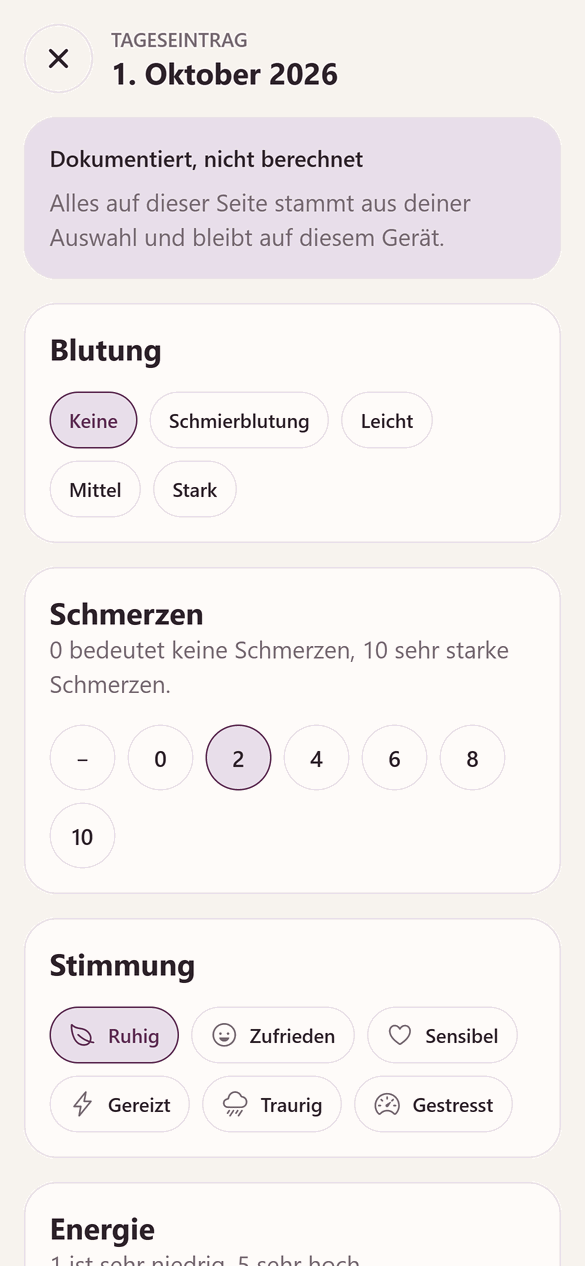
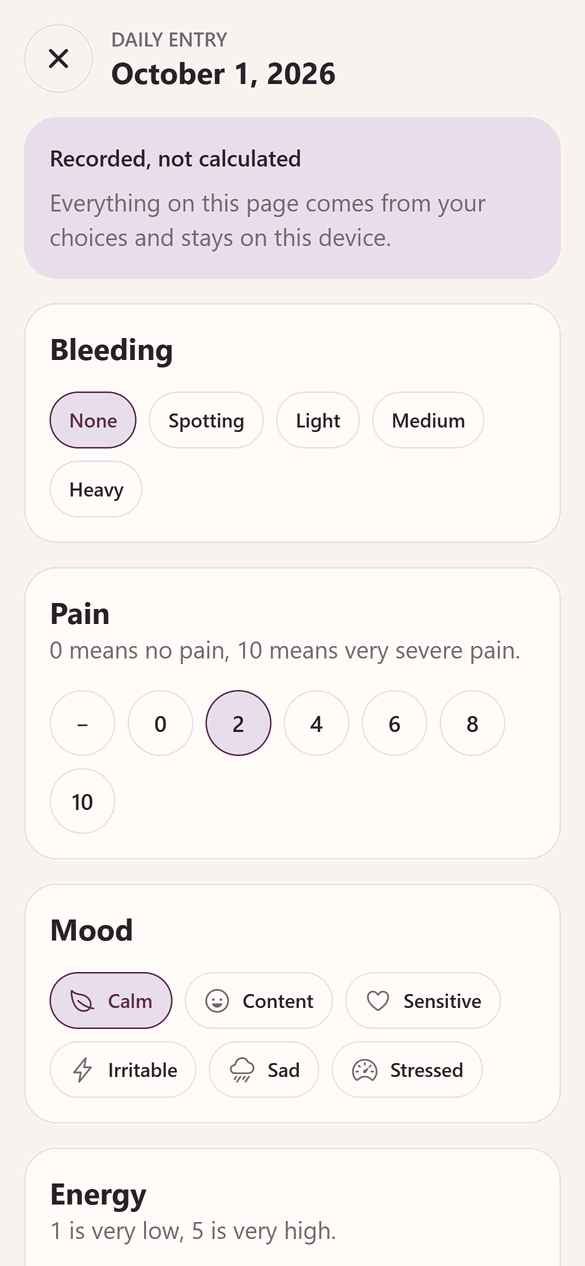
docs: refresh README screenshots with the English interface
Recapture hero composites (light and dark), single screens and the social
preview from the web preview with synthetic data, now in English. Document
the capture language in the screenshot guidelines.

diff --git a/README.md b/README.md
@@ -21,7 +21,7 @@
   <img src="docs/images/hero-light.png" alt="Three Cykla screens: the Today overview with the next period estimate, the monthly calendar separating recorded period days from the estimated fertile window, and the explanation of how the estimate is calculated">
 </picture>
 
-<p align="center"><sub>Captured from the web development preview with synthetic data. Screenshots show the German interface; English is also available.</sub></p>
+<p align="center"><sub>Captured from the web development preview with synthetic data. Screenshots show the English interface; German is also available.</sub></p>
 
 > [!IMPORTANT]
 > Cykla records data and calculates estimates. It does not diagnose, is not a

diff --git a/CONTRIBUTING.md b/CONTRIBUTING.md
@@ -70,6 +70,8 @@ When a screen changes noticeably, refresh the affected images:
 
 - Capture the real app, not mockups. The web preview (`npm run web`) at a
   390 × 844 viewport with a device pixel ratio of 3 matches the existing images.
+- Capture the English interface (browser language `en-US`); single screens use the
+  light theme.
 - Use a fresh browser profile and synthetic data only. There is no demo-data
   mode, so complete onboarding and enter invented period days in the daily editor.
 - Provide matching light and dark versions of the hero composites.
